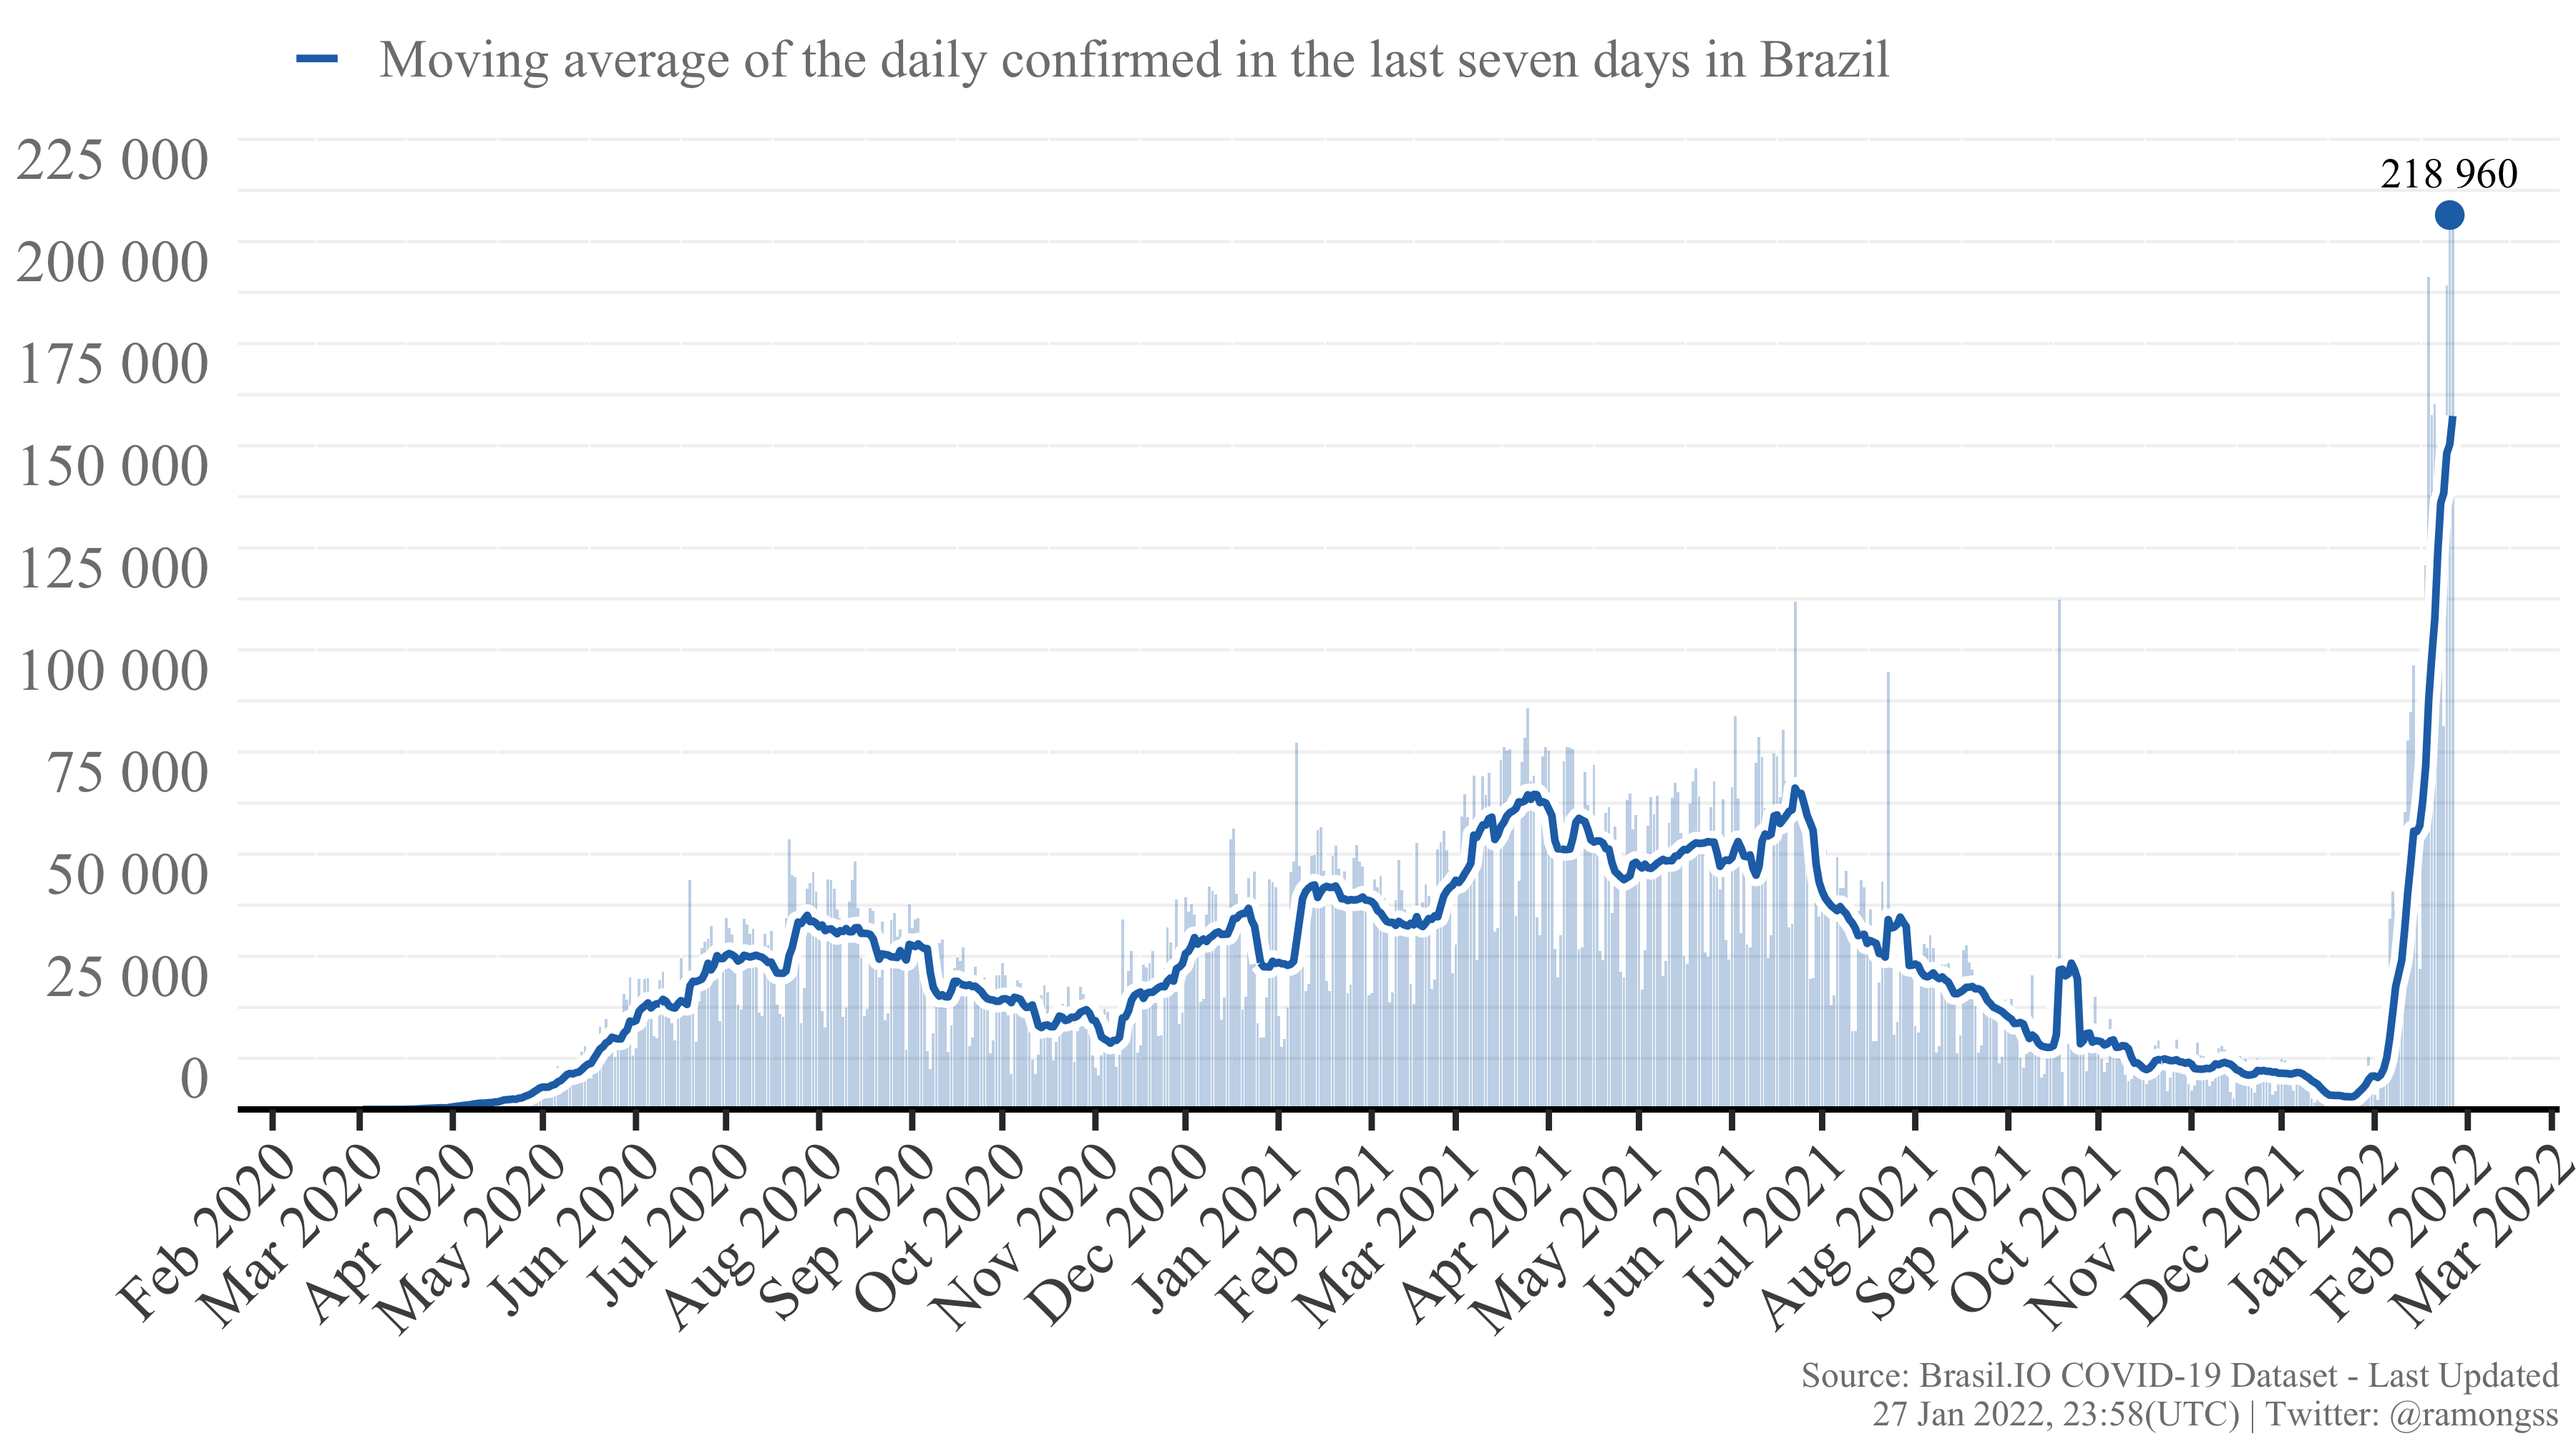
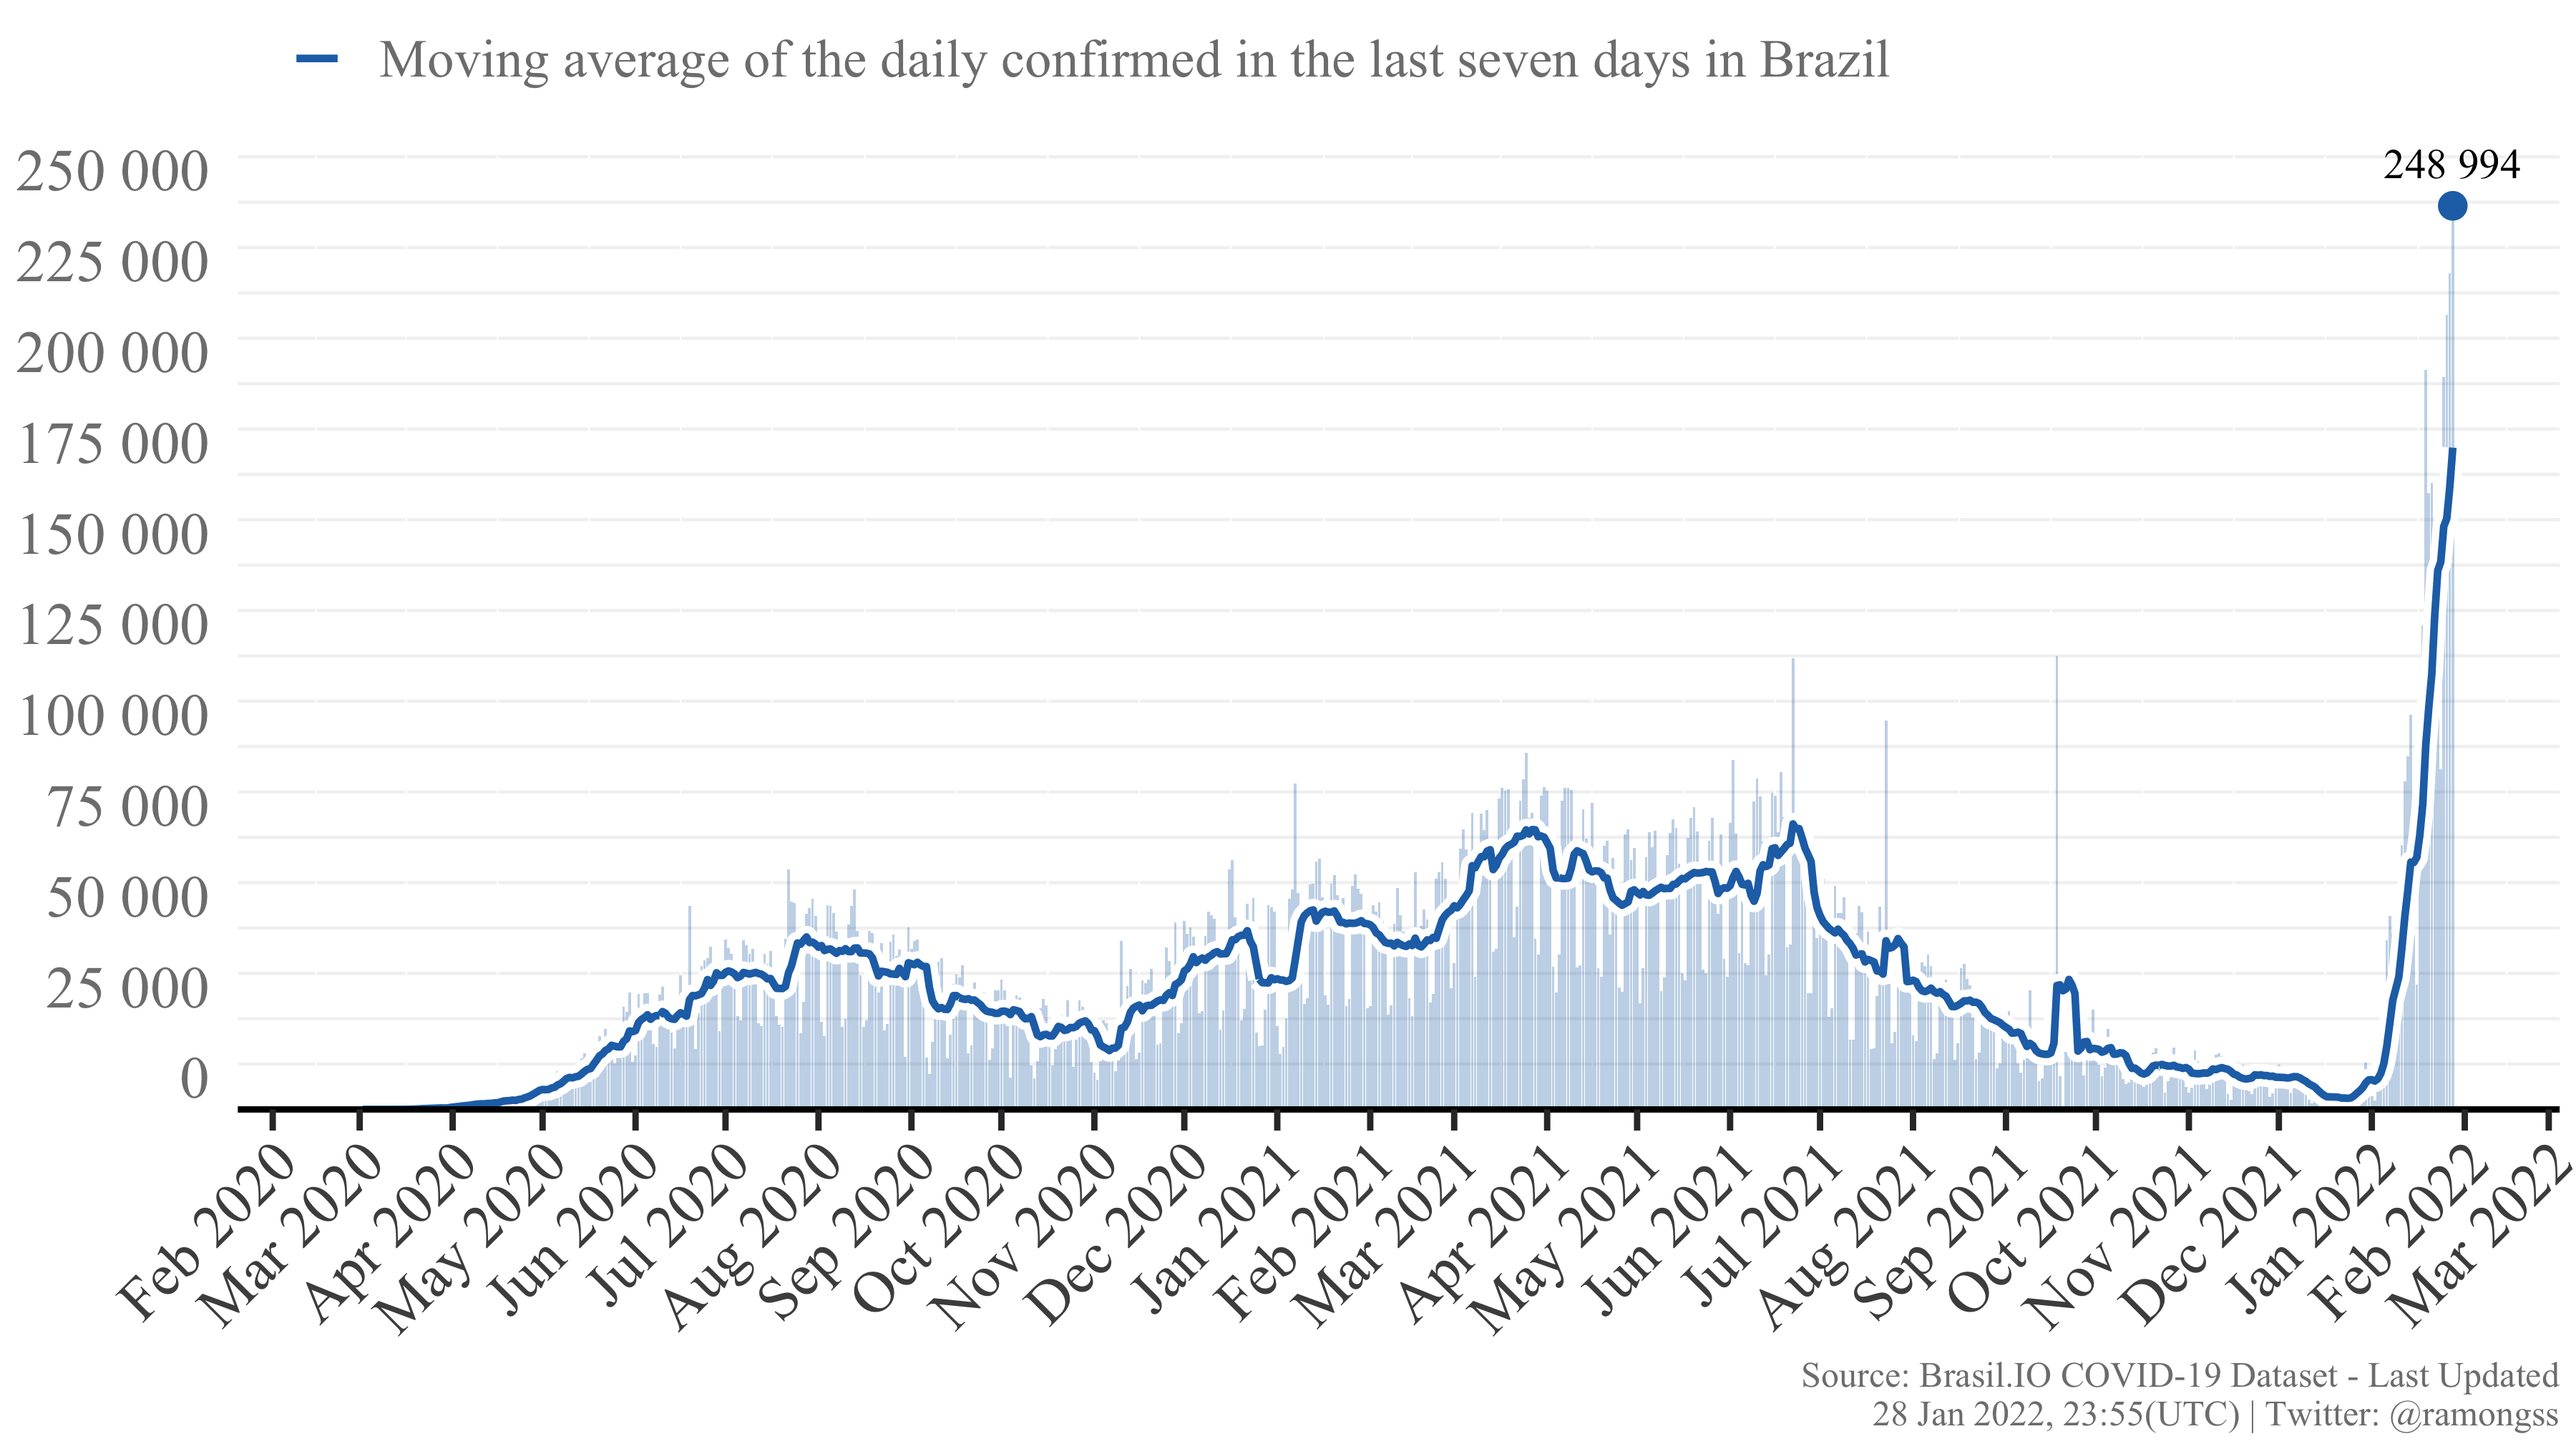
Re-build README.Rmd

diff --git a/README.md b/README.md
@@ -27,9 +27,9 @@ download_brasilio_table <- function(dataset = "covid19", table_name){
 
 ## COVID-19 Confirmed cases
 
-Currently, Brazil has a total of **24,789,795** confirmed cases at **27
-Jan, 2022**, with **218,538** new confirmed cases. The daily maximum
-incidence was **218,960** confirmed cases at **26 Jan, 2022**. Here
+Currently, Brazil has a total of **25,050,601** confirmed cases at **28
+Jan, 2022**, with **248,994** new confirmed cases. The daily maximum
+incidence was **248,994** confirmed cases at **28 Jan, 2022**. Here
 follows the Figure showing the confirmed case incidence as the bars, and
 the line as the moving average of the last 7 days.
 
@@ -37,8 +37,8 @@ the line as the moving average of the last 7 days.
 
 ## COVID-19 Deaths
 
-Currently, Brazil has a total of **625,390** deaths at **27 Jan, 2022**,
-with **642** new deaths. The daily maximum deaths incidence was
+Currently, Brazil has a total of **626,170** deaths at **28 Jan, 2022**,
+with **738** new deaths. The daily maximum deaths incidence was
 **4,148** deaths at **08 Apr, 2021**. Here follows the Figure showing
 the deaths incidence as the bars, and the line as the moving average of
 the last 7 days.
@@ -49,4 +49,4 @@ the last 7 days.
 
 This page is daily updated automatically using Github Actions.
 
-*Last update: 27 Jan 2022, 23:58 (UTC).*
+*Last update: 28 Jan 2022, 23:55 (UTC).*
